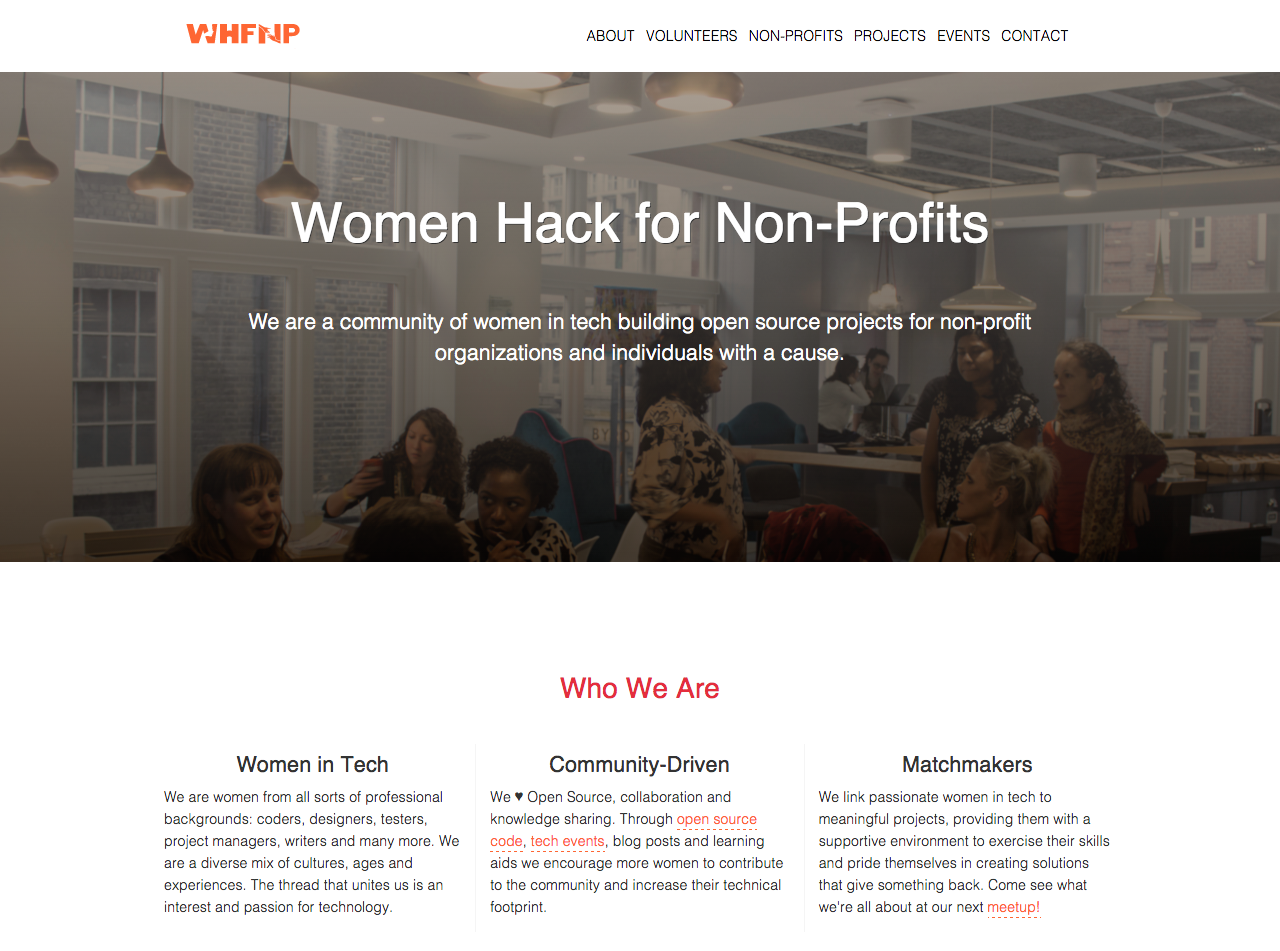
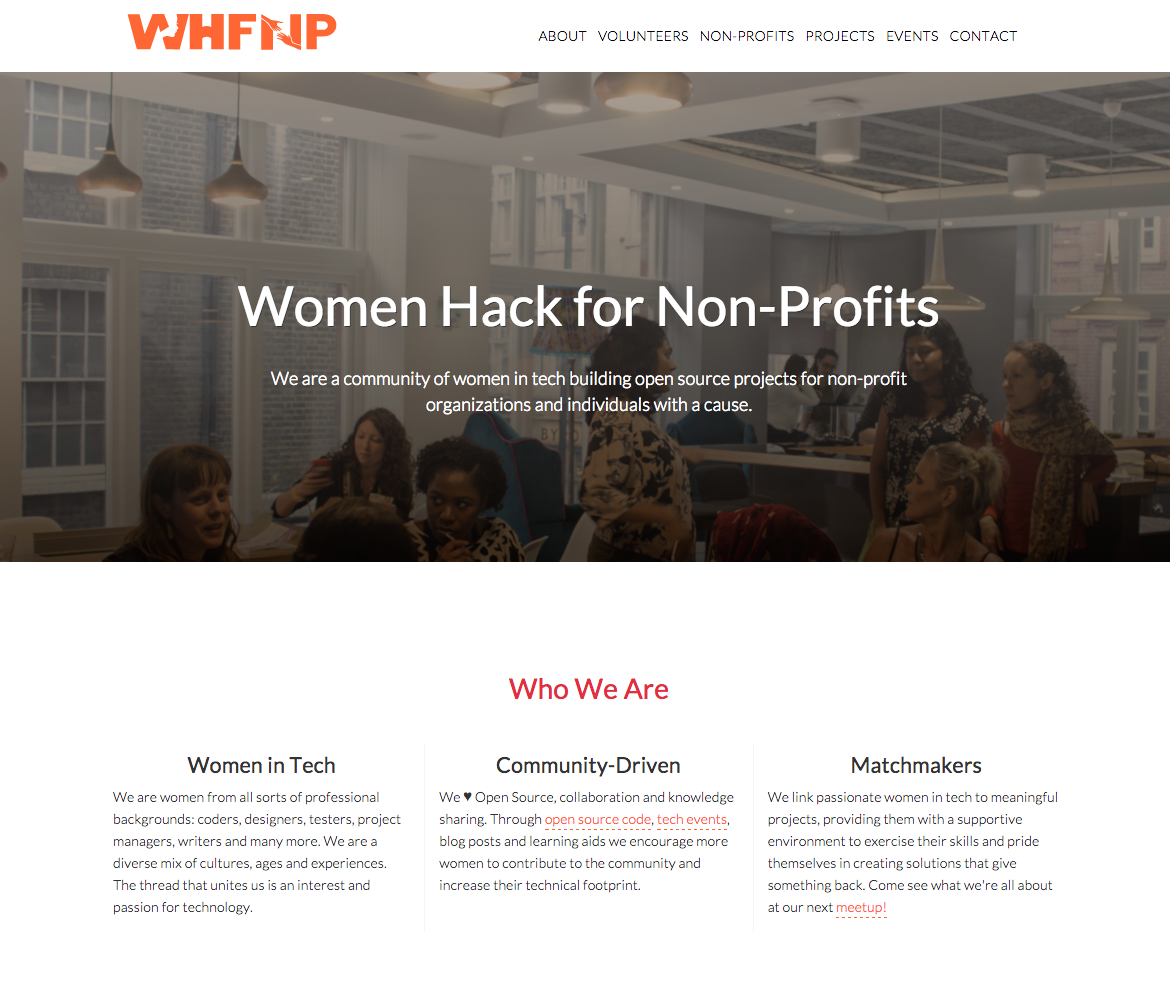
Removed extra spacing from the homepage, updated IPPR & WHFN project pics

diff --git a/src/css/screen.css b/src/css/screen.css
@@ -1,6 +1,7 @@
 /*! normalize.css v2.1.3 | MIT License | git.io/normalize */
 @import url(https://fonts.googleapis.com/css?family=Lato:400,300,700);
 @import url(https://fonts.googleapis.com/css?family=Lato:400,300,700);
+@import url(https://fonts.googleapis.com/css?family=Lato:400,300,700);
 article, aside, details, figcaption, figure, footer, header, hgroup, main, nav, section, summary {
   display: block; }
 

diff --git a/src/sass/partials/_columns.scss b/src/sass/partials/_columns.scss
@@ -3,7 +3,7 @@
 	max-width: 30em;
 	margin: $padding-margin-value auto;
 	padding: .5em;
-	margin-bottom: $padding-margin-value*2;
+	//margin-bottom: $padding-margin-value*2;
 	text-align: center;
 
 	h2 {
